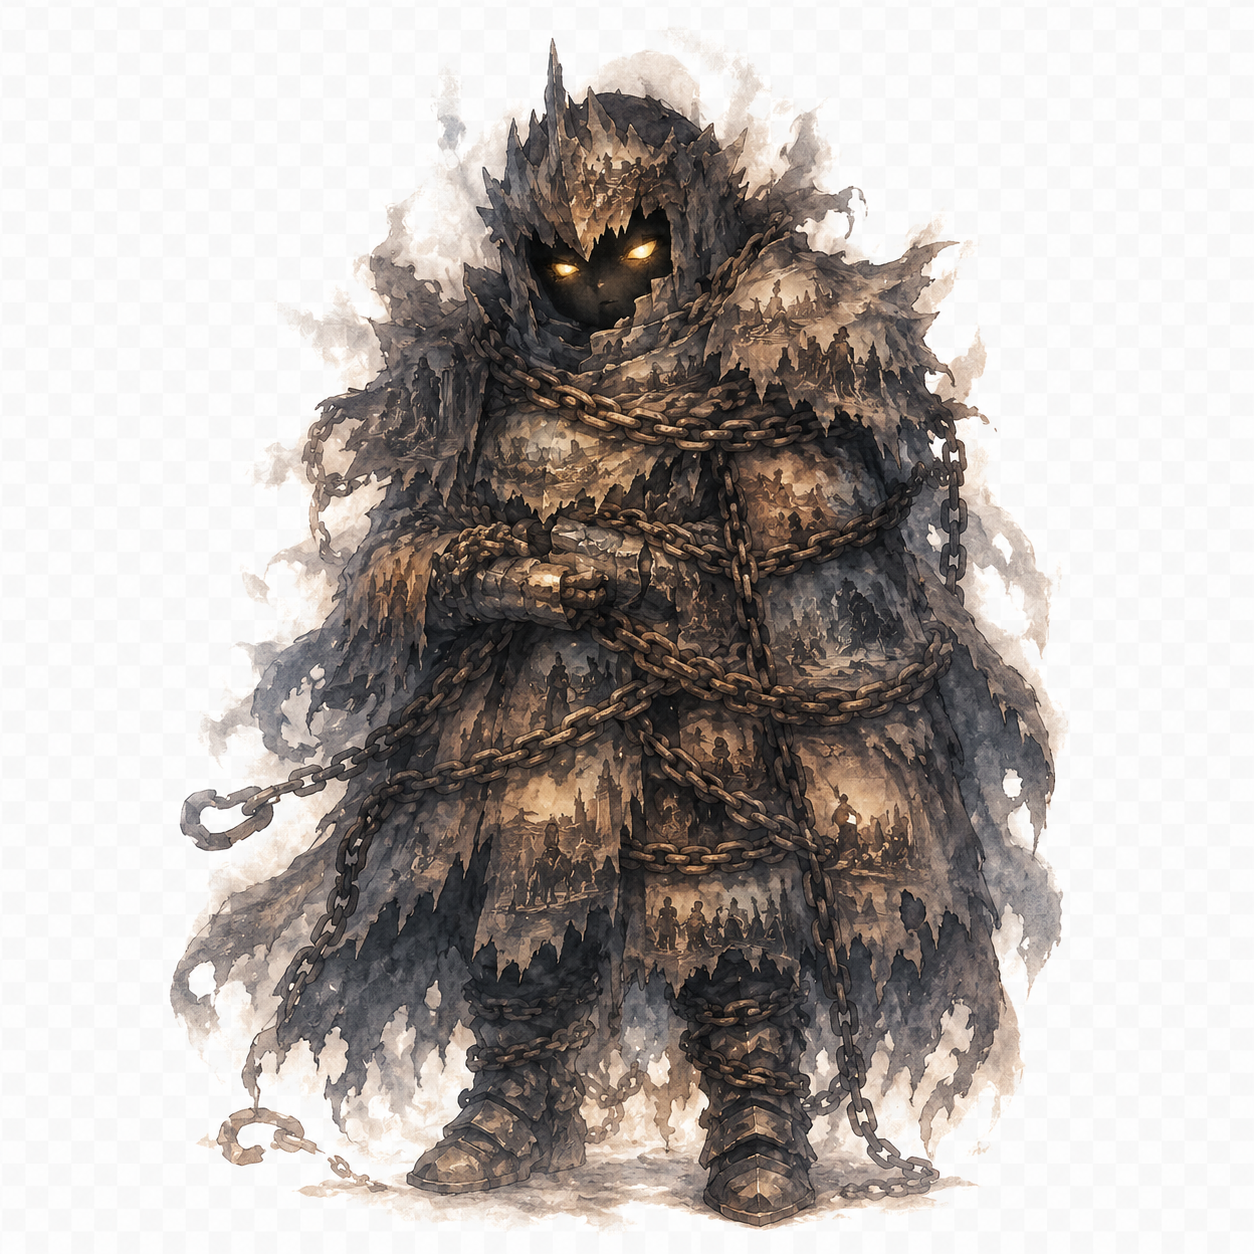
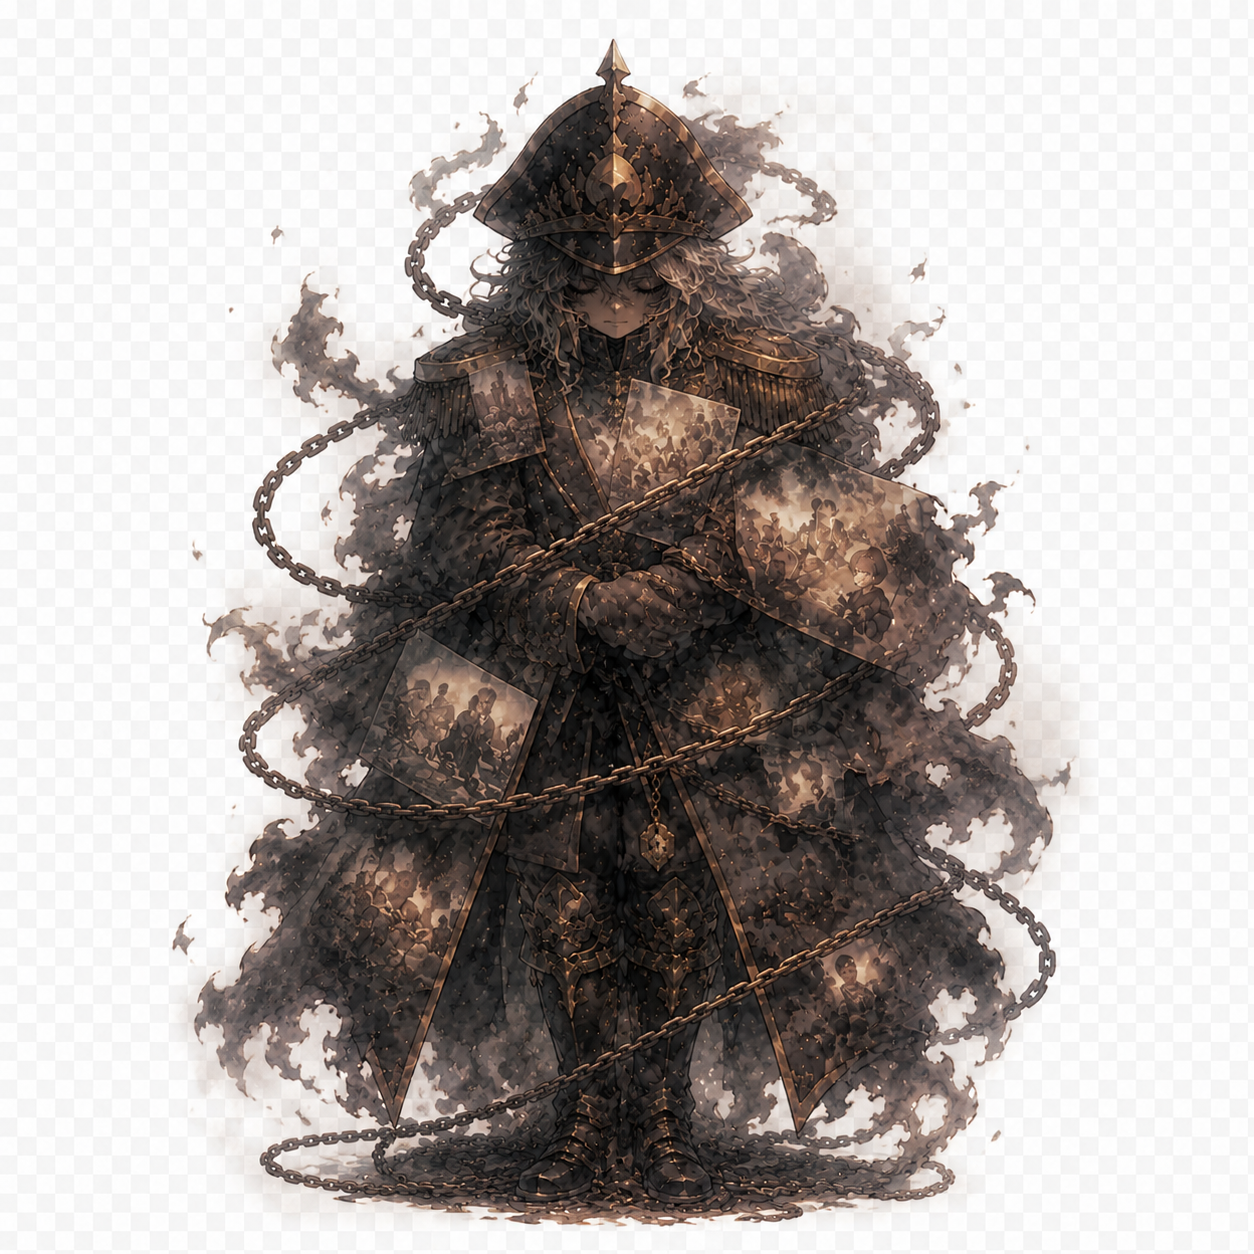
feat: Z案レイアウト実装 (v4.1) - タブ切り替え型クエスト画面
4チャレンジタブ＋シーンエリア＋ボトムアクションの3ペイン構成に刷新。
ルミナント将軍の画像も最新版に更新。

diff --git a/index.html b/index.html
@@ -118,6 +118,22 @@ textarea{resize:vertical;min-height:80px}
 .result-btns .btn{flex:1;padding:12px 8px;font-size:.88rem}
 .memo-area{margin-top:12px;display:none}
 .memo-area.open{display:block}
+/* Z案クエストレイアウト */
+.quest-z{display:flex;flex-direction:column;gap:0}
+.c-tabs{display:flex;gap:6px;margin-bottom:10px}
+.c-tab{flex:1;padding:8px 2px;background:var(--surface);border:1px solid var(--border);border-radius:8px;cursor:pointer;display:flex;flex-direction:column;align-items:center;gap:2px;transition:.2s;font-family:'Shippori Mincho',serif;min-width:0}
+.c-tab.active{border-color:var(--gold);background:#201848;box-shadow:0 0 8px rgba(240,192,96,.25)}
+.c-tab.skipped{opacity:.35;cursor:default}
+.c-tab-icon{font-size:1.3rem;line-height:1}
+.c-tab-diff{font-size:.6rem;color:var(--dim)}
+.scene-area{border-radius:12px;position:relative;display:flex;align-items:center;justify-content:center;overflow:hidden;margin-bottom:10px;min-height:210px;max-height:52vw}
+.scene-forest{background:linear-gradient(180deg,#0a1628 0%,#0d1f35 40%,#112516 100%)}
+.scene-fog{background:linear-gradient(180deg,#12102a 0%,#1a1535 50%,#0e1a28 100%)}
+.scene-castle{background:linear-gradient(180deg,#1a0a2a 0%,#2a0f3a 40%,#0d0a1a 100%)}
+.scene-enemy{max-height:190px;max-width:80%;object-fit:contain;display:block;background-color:transparent;mix-blend-mode:normal;filter:drop-shadow(0 0 18px rgba(155,109,255,.35));transition:all .6s ease}
+.scene-name-label{position:absolute;bottom:7px;font-size:.72rem;color:rgba(232,223,200,.8);font-family:'Zen Antique',serif;text-shadow:0 1px 6px rgba(0,0,0,.9);letter-spacing:.06em}
+.quest-bottom{background:var(--surface);border:1px solid var(--border);border-radius:12px;padding:14px}
+.quest-challenge-name{font-size:.9rem;line-height:1.65;margin:6px 0 10px;color:var(--text)}
 .skill-toast{position:fixed;top:50%;left:50%;transform:translate(-50%,-50%);
   background:rgba(13,8,32,.96);border:2px solid var(--gold);color:var(--gold);
   font-family:'Zen Antique',serif;font-size:1.3rem;font-weight:700;
@@ -1092,99 +1108,95 @@ function renderSelect() {
   });
 }
 
-function renderChallenge() {
-  const idx = G.challengeFlowIndex;
-  const ids = G.weeklySelected;
-  if (idx >= ids.length) { showPhase('remnant'); return; }
+let _challengeTabId = null;
 
-  const id = ids[idx];
-  const c  = getChallenge(id);
+function renderChallenge() {
+  const area = document.getElementById('challenge-flow-area');
+
+  // Auto-select tab: first pending selected challenge, else first selected, else first assigned
+  if (!_challengeTabId || !G.weeklyAssigned.includes(_challengeTabId)) {
+    const firstPending = G.weeklySelected.find(id => !G.weeklyResults[id]);
+    _challengeTabId = firstPending || G.weeklySelected[0] || G.weeklyAssigned[0];
+  }
+
+  const diffLabel = {easy:'易',medium:'普',hard:'難',boss:'王'};
+
+  const tabsHTML = G.weeklyAssigned.map(id => {
+    const c = getChallenge(id);
+    const enemy = getEnemyForChallenge(id);
+    const isSelected = G.weeklySelected.includes(id);
+    const result = G.weeklyResults[id];
+    const isActive = id === _challengeTabId;
+    const statusIcon = result ? (isSaved(result) ? '✨' : '😔') : (isSelected ? enemy.emoji : '💨');
+    return `<button class="c-tab${isActive?' active':''}${!isSelected?' skipped':''}"
+      data-tab-id="${id}"${!isSelected?' disabled':''}>
+      <span class="c-tab-icon">${statusIcon}</span>
+      <span class="c-tab-diff">${diffLabel[c.d]||'?'}</span>
+    </button>`;
+  }).join('');
+
+  area.innerHTML = `<div class="quest-z">
+    <div class="c-tabs">${tabsHTML}</div>
+    <div id="z-scene"></div>
+    <div id="z-bottom" class="quest-bottom"></div>
+  </div>`;
+
+  area.querySelectorAll('.c-tab:not([disabled])').forEach(btn => {
+    btn.addEventListener('click', () => {
+      _challengeTabId = Number(btn.dataset.tabId);
+      renderChallenge();
+    });
+  });
+
+  renderChallengeContent(_challengeTabId);
+}
+
+function renderChallengeContent(id) {
+  const c = getChallenge(id);
   const enemy = getEnemyForChallenge(id);
   const result = G.weeklyResults[id];
-  const area = document.getElementById('challenge-flow-area');
-  area.innerHTML = '';
+  const isSelected = G.weeklySelected.includes(id);
 
+  const week = G.currentWeek;
+  const sceneCls = week <= 5 ? 'scene-forest' : week <= 10 ? 'scene-fog' : 'scene-castle';
   const imgSrc = result
     ? (isSaved(result) ? `assets/enemies/${enemy.key}_saved.png` : `assets/enemies/${enemy.key}_failed.png`)
     : `assets/enemies/${enemy.key}_normal.png`;
 
-  const div = document.createElement('div');
-  div.className = 'flow-card';
-  div.innerHTML = `
-    <div class="flow-header">
-      <img class="flow-player" src="assets/player.png" alt="なおたか"
-        onerror="this.style.display='none';this.nextElementSibling.style.display='inline'">
-      <div class="flow-player-fallback">🐐</div>
-      <div>${BADGE_HTML[c.d]||BADGE_HTML.easy}<div style="font-size:.92rem;font-weight:700;margin-top:4px">${c.name}</div></div>
-    </div>
-    <div style="text-align:center;margin:8px 0">
-      <img id="flow-enemy-img" src="${imgSrc}" alt="${enemy.name}" class="flow-enemy-img"
-        onerror="this.style.display='none';document.getElementById('flow-enemy-fallback').style.display='block'">
-      <div id="flow-enemy-fallback" class="flow-enemy-fallback" style="display:none">${enemy.emoji}</div>
-      <div style="font-size:.78rem;color:var(--dim);margin-top:4px">${enemy.name}</div>
-    </div>
-    ${result ? resultSummaryHTML(result, idx, ids.length) : resultButtonsHTML()}`;
-  area.appendChild(div);
+  const sceneEl = document.getElementById('z-scene');
+  sceneEl.className = `scene-area ${sceneCls}`;
+  sceneEl.innerHTML = `
+    <img class="scene-enemy" id="z-enemy-img" src="${imgSrc}" alt="${enemy.name}"
+      onerror="this.style.display='none'">
+    <div class="scene-name-label">${enemy.name}</div>`;
 
-  if (!result) {
-    div.querySelector('#btn-saved').onclick = async e => {
-      const rect = e.target.getBoundingClientRect();
-      saveAnimation(c.d, rect.left + rect.width/2, rect.top + rect.height/2);
+  const bottomEl = document.getElementById('z-bottom');
 
-      // Switch enemy image to saved
-      const img = div.querySelector('#flow-enemy-img');
-      if (img) {
-        img.src = `assets/enemies/${enemy.key}_saved.png`;
-        img.style.filter = 'brightness(1.2)';
-        setTimeout(() => { if(img) img.style.filter = ''; }, 800);
-      }
-
-      const entry = {
-        run:G.currentRun, week:G.currentWeek,
-        challenge_id:c.id, challenge_name:c.name, difficulty:c.d,
-        status:'saved', memo:'', ts:new Date().toISOString(), enemyKey:enemy.key
-      };
-      G.weeklyResults[id] = {status:'saved', memo:''};
-      G.challengeHistory.push(entry);
-      G.totalSaved++;
-      G.challengeFlowIndex++;
-      save();
-      updateBackgroundStage(G.totalSaved);
-      addXP(DIFF_XP[c.d]||10, c.d);
-      gasPost({action:'save_challenge', ...entry, timestamp:entry.ts});
-      checkBonuses();
-      setTimeout(() => renderChallenge(), 2200);
-    };
-
-    div.querySelector('#btn-failed').onclick = () => {
-      div.querySelector('.memo-area').classList.add('open');
-    };
-    div.querySelector('#btn-save-memo').onclick = () => {
-      const memo = div.querySelector('#memo-input').value.trim();
-      const img = div.querySelector('#flow-enemy-img');
-      if (img) img.src = `assets/enemies/${enemy.key}_failed.png`;
-
-      const entry = {
-        run:G.currentRun, week:G.currentWeek,
-        challenge_id:c.id, challenge_name:c.name, difficulty:c.d,
-        status:'failed', memo, ts:new Date().toISOString(), enemyKey:enemy.key
-      };
-      G.weeklyResults[id] = {status:'failed', memo};
-      G.challengeHistory.push(entry);
-      G.challengeFlowIndex++;
-      save();
-      if (memo) addXP(5, 'memo');
-      gasPost({action:'save_challenge', ...entry, timestamp:entry.ts});
-      renderChallenge();
-    };
-  } else {
-    const nextBtn = div.querySelector('#btn-next');
-    if (nextBtn) nextBtn.onclick = () => { G.challengeFlowIndex++; save(); renderChallenge(); };
+  if (!isSelected) {
+    bottomEl.innerHTML = `<p style="text-align:center;color:var(--dim);font-size:.88rem;padding:8px 0">
+      今回は通り過ぎた魂…<br><span style="font-size:.75rem">この魂は次の機会に救える</span></p>`;
+    return;
   }
-}
 
-function resultButtonsHTML() {
-  return `
+  const allDone = G.weeklySelected.length > 0 && G.weeklySelected.every(sid => G.weeklyResults[sid]);
+
+  if (result) {
+    const saved = isSaved(result);
+    bottomEl.innerHTML = `
+      ${BADGE_HTML[c.d]||BADGE_HTML.easy}
+      <div class="quest-challenge-name">${c.name}</div>
+      <div style="text-align:center;font-size:1.05rem;margin-bottom:10px">${saved?'✨ 救い出した！':'😔 まだ手が届かなかった…'}</div>
+      ${result.memo ? `<p class="dim" style="font-size:.82rem;margin-bottom:10px">💭 ${result.memo}</p>` : ''}
+      ${allDone ? `<button class="btn btn-gold" id="btn-to-remnant">⚔ 振り返りへ進む</button>` : ''}`;
+    if (allDone) {
+      document.getElementById('btn-to-remnant').onclick = () => showPhase('remnant');
+    }
+    return;
+  }
+
+  bottomEl.innerHTML = `
+    ${BADGE_HTML[c.d]||BADGE_HTML.easy}
+    <div class="quest-challenge-name">${c.name}</div>
     <div class="result-btns">
       <button class="btn btn-gold" id="btn-saved">✨ 救い出した！</button>
       <button class="btn btn-danger" id="btn-failed">😔 まだ手が届かない…</button>
@@ -1197,17 +1209,58 @@ function resultButtonsHTML() {
       <div class="gap"></div>
       <button class="btn btn-accent" id="btn-save-memo">💭 記録して前へ進む (+5XP)</button>
     </div>`;
-}
 
-function resultSummaryHTML(result, idx, total) {
-  const saved = isSaved(result);
-  const icon  = saved ? '✨' : '😔';
-  const label = saved ? '救い出した！' : 'まだ手が届かなかった…';
-  const next  = idx + 1 < total ? '次の魂へ →' : '振り返りへ進む →';
-  return `
-    <div style="text-align:center;font-size:1.1rem;margin-bottom:10px">${icon} ${label}</div>
-    ${result.memo ? `<p class="dim" style="font-size:.82rem;margin-bottom:10px">💭 ${result.memo}</p>` : ''}
-    <button class="btn btn-accent" id="btn-next">${next}</button>`;
+  document.getElementById('btn-saved').onclick = async e => {
+    const rect = e.target.getBoundingClientRect();
+    saveAnimation(c.d, rect.left + rect.width/2, rect.top + rect.height/2);
+    const img = document.getElementById('z-enemy-img');
+    if (img) {
+      img.src = `assets/enemies/${enemy.key}_saved.png`;
+      img.style.filter = 'brightness(1.2)';
+      setTimeout(() => { if (img) img.style.filter = ''; }, 800);
+    }
+    const entry = {
+      run:G.currentRun, week:G.currentWeek,
+      challenge_id:c.id, challenge_name:c.name, difficulty:c.d,
+      status:'saved', memo:'', ts:new Date().toISOString(), enemyKey:enemy.key
+    };
+    G.weeklyResults[id] = {status:'saved', memo:''};
+    G.challengeHistory.push(entry);
+    G.totalSaved++;
+    save();
+    updateBackgroundStage(G.totalSaved);
+    addXP(DIFF_XP[c.d]||10, c.d);
+    gasPost({action:'save_challenge', ...entry, timestamp:entry.ts});
+    checkBonuses();
+    setTimeout(() => {
+      const nextPending = G.weeklySelected.find(sid => !G.weeklyResults[sid]);
+      if (nextPending) _challengeTabId = nextPending;
+      renderChallenge();
+    }, 2200);
+  };
+
+  document.getElementById('btn-failed').onclick = () => {
+    document.querySelector('#z-bottom .memo-area').classList.add('open');
+  };
+
+  document.getElementById('btn-save-memo').onclick = () => {
+    const memo = document.getElementById('memo-input').value.trim();
+    const img = document.getElementById('z-enemy-img');
+    if (img) img.src = `assets/enemies/${enemy.key}_failed.png`;
+    const entry = {
+      run:G.currentRun, week:G.currentWeek,
+      challenge_id:c.id, challenge_name:c.name, difficulty:c.d,
+      status:'failed', memo, ts:new Date().toISOString(), enemyKey:enemy.key
+    };
+    G.weeklyResults[id] = {status:'failed', memo};
+    G.challengeHistory.push(entry);
+    save();
+    if (memo) addXP(5, 'memo');
+    gasPost({action:'save_challenge', ...entry, timestamp:entry.ts});
+    const nextPending = G.weeklySelected.find(sid => !G.weeklyResults[sid]);
+    if (nextPending) _challengeTabId = nextPending;
+    renderChallenge();
+  };
 }
 
 function checkBonuses() {
@@ -1645,6 +1698,7 @@ document.getElementById('btn-sortie').onclick = async () => {
   const ok = await confirmDialog('この魂と向き合う覚悟はありますか？');
   if (!ok) return;
   G.challengeFlowIndex = 0;
+  _challengeTabId = null;
   save();
   showPhase('challenge');
 };
@@ -1653,6 +1707,7 @@ document.getElementById('btn-fight-remnant').onclick = () => {
   if (!remnant.length) { showPhase('gate'); return; }
   G.weeklySelected = [...G.weeklySelected, ...remnant];
   G.challengeFlowIndex = G.weeklySelected.indexOf(remnant[0]);
+  _challengeTabId = remnant[0];
   save();
   showPhase('challenge');
 };
